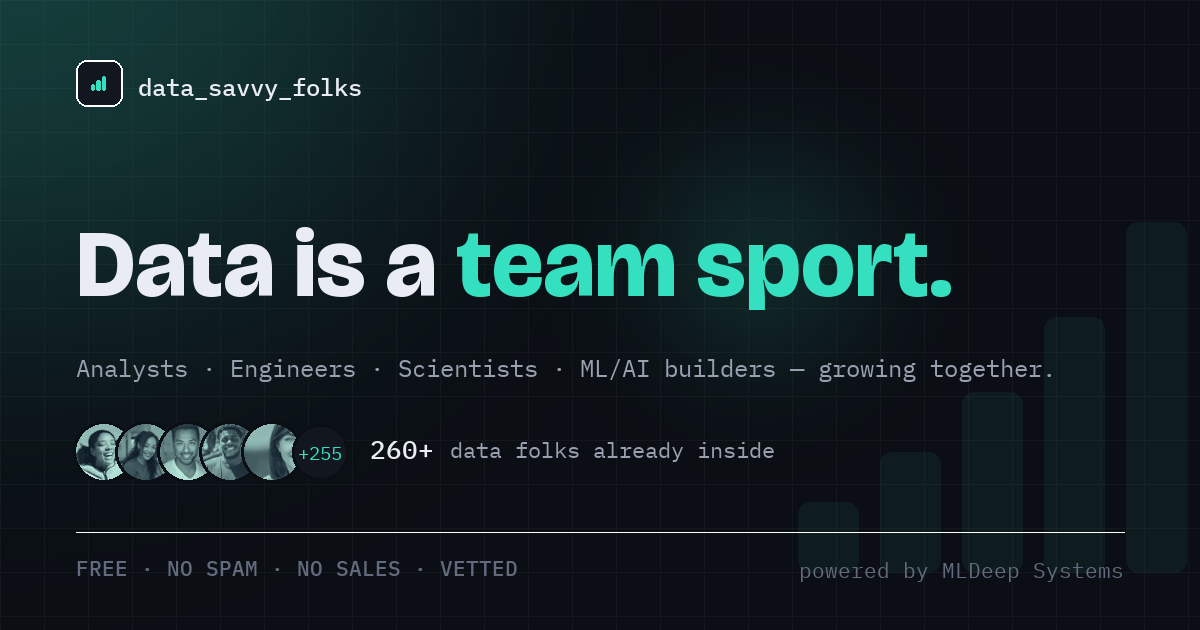
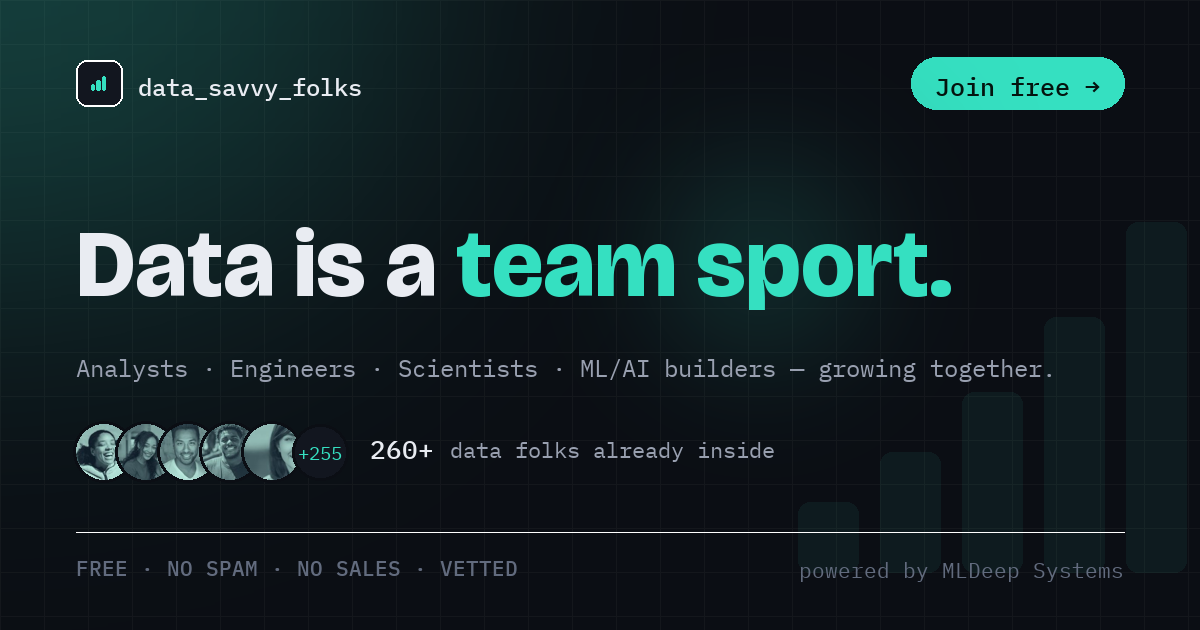
Fix social/SEO meta-tag flags
- Add og:site_name ("Data Savvy Folks") so link cards aren't anonymous
- Trim meta description to 144 chars (was 171) to avoid Google truncation
- Add a "Join free →" CTA to the OG image so the share card reads as clickable

Claude-Session: https://claude.ai/code/session_0181HWXytgNPjxjoaCtUwVmv

Changed region(s): [[0.74, 0.0905, 0.9558, 0.181]]

diff --git a/index.html b/index.html
@@ -4,9 +4,10 @@
 <meta charset="UTF-8" />
 <meta name="viewport" content="width=device-width, initial-scale=1.0" />
 <title>Data Savvy Folks — a community for people who work with data</title>
-<meta name="description" content="260+ analysts, data engineers, data scientists and ML/AI builders — plus folks breaking in — trading knowledge, honest feedback and job leads. Free while we grow to 1,000." />
+<meta name="description" content="260+ analysts, data engineers, scientists and ML/AI builders trading knowledge, feedback and job leads. Free mentorship, no spam — come join us." />
 
 <meta property="og:type" content="website" />
+<meta property="og:site_name" content="Data Savvy Folks" />
 <meta property="og:title" content="Data Savvy Folks — data is a team sport" />
 <meta property="og:description" content="260+ data pros & aspirants trading knowledge, feedback and job leads. Free mentorship, no spam, no sales. Come join us." />
 <meta property="og:image" content="https://mldeepsystems.github.io/datasavvyfolks/og-image.png" />
